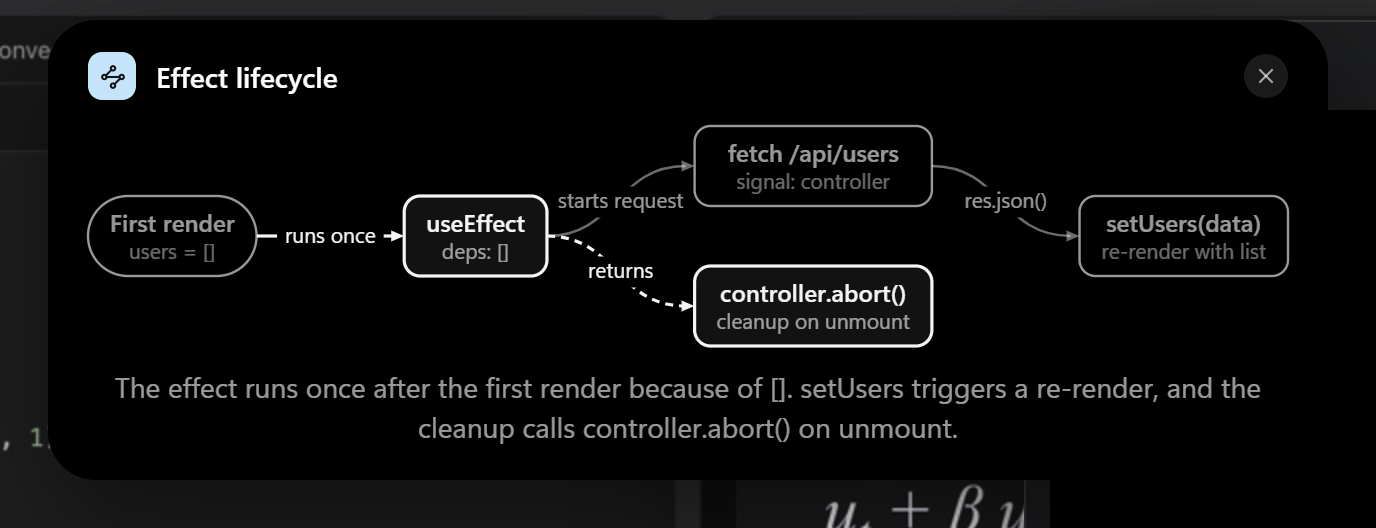
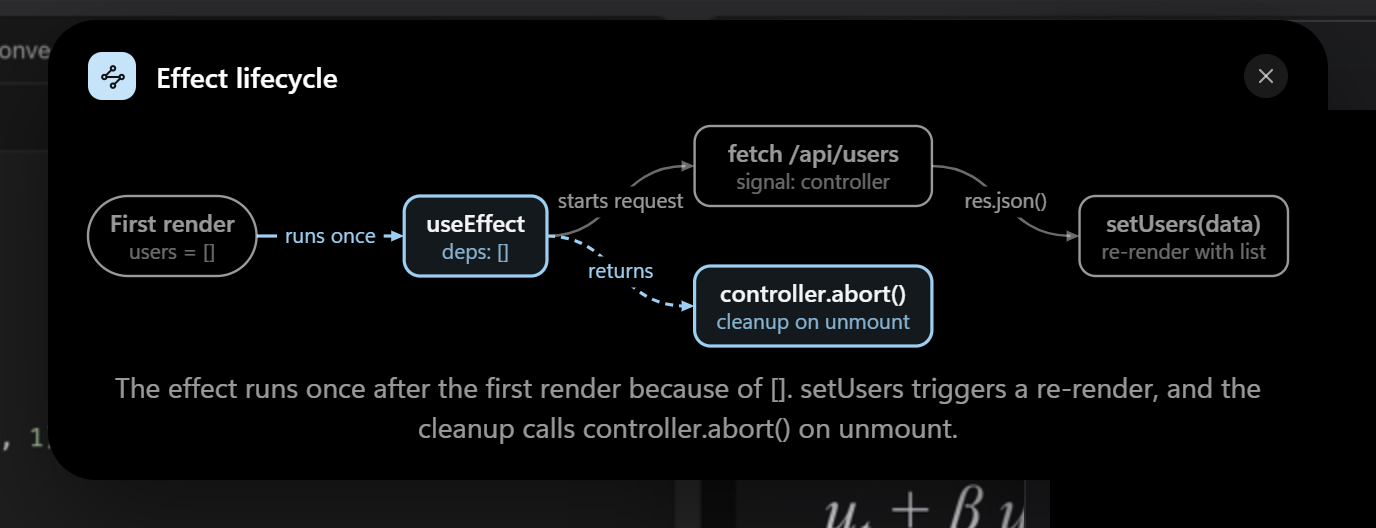
diagrams: a tad of pastel (Adrian): deep-sky emphasis, pastel group washes and git lanes, sky heatmap ramp

diff --git a/app/src/renderer/src/features/diagrams/Graph.tsx b/app/src/renderer/src/features/diagrams/Graph.tsx
@@ -7,13 +7,14 @@
  *   sequence : participants on top, lifelines, one arrow per message in `order`, top to bottom
  *   git      : a vertical log (like `git log --graph`): row = commit order (col), lanes = branches (row) as
  *              columns on the left, hash + message + branch tag on the right, so no line crosses a label
- * Emphasis = full white; everything else at label alpha. Groups are a faint cluster with their label.
+ * Color, a tad (Adrian, Sat): emphasis in deep sky (the Diagram tone, like the header tile); groups and git lanes take
+ * the pastel trio (sky, lilac, pink) as soft washes. Everything else white / label alpha. Green and amber stay status-only.
  * Lines draw in (350 ms, 30 ms stagger). Every label comes from the data. Reference: server/diagrams/render_svg.py.
  */
 import { motion } from 'motion/react'
 import { useId, useMemo, type ReactNode } from 'react'
 import type { GraphDiagramData } from '../../../../../../shared/contracts/events'
-import { color, fill, font } from '../../core/theme'
+import { brand, color, fill, font } from '../../core/theme'
 
 type Node = GraphDiagramData['nodes'][number]
 type Edge = GraphDiagramData['edges'][number]
@@ -28,6 +29,16 @@ const STAGGER = 0.03
 const MASK = 'white'
 const LABEL = 10.5
 const LH = 12.5
+/** Emphasis: the deeper sky (the Diagram tone reads near-white as a thin stroke). */
+const ACCENT = brand.pastel.skyDeep
+/** Categorical washes (groups, git lanes), in order. */
+const PASTELS = [brand.pastel.sky, brand.pastel.lilac, brand.pastel.pink] as const
+/** A token hex at alpha a. */
+export function tint(hex: string, a: number): string {
+  const m = hex.replace('#', '')
+  const [r, g, b] = [0, 2, 4].map((i) => parseInt(m.slice(i, i + 2), 16))
+  return `rgba(${r},${g},${b},${a})`
+}
 
 // ---------------------------------------------------------------------------------------------- text
 
@@ -77,10 +88,10 @@ const clamp = (v: number, lo: number, hi: number): number => Math.max(lo, Math.m
 
 type BoxText = { label: Fit; detail: string[]; dsize: number }
 type CommitText = { hash: Fit; hashX: number; detail?: Fit; detailX: number; tag?: { x: number; w: number; text: string } }
-type Box = { n: Node; x: number; y: number; w: number; h: number; hx: number; hy: number; rank: number; kind: 'box' | 'circle' | 'commit'; text?: BoxText; commit?: CommitText }
+type Box = { n: Node; x: number; y: number; w: number; h: number; hx: number; hy: number; rank: number; kind: 'box' | 'circle' | 'commit'; text?: BoxText; commit?: CommitText; tone?: string }
 type Label = { x: number; y: number; lines: string[]; size: number; anchor: 'middle' | 'start'; bg: boolean }
-type Line = { key: string; d: string; dashed: boolean; strong: boolean; head?: { x: number; y: number; a: number }; label?: Label; order: number; title: string }
-type Group = { id: string; label: string; x: number; y: number; w: number; h: number }
+type Line = { key: string; d: string; dashed: boolean; strong: boolean; stroke?: string; head?: { x: number; y: number; a: number }; label?: Label; order: number; title: string }
+type Group = { id: string; label: string; x: number; y: number; w: number; h: number; tone: string }
 type Scene = { boxes: Box[]; lines: Line[]; groups: Group[]; lifelines: { x: number; y1: number; y2: number }[]; minY: number; maxY: number }
 
 function extents(): { add: (a: number, b: number) => void; get: () => { minY: number; maxY: number } } {
@@ -222,14 +233,14 @@ function layered(g: GraphDiagramData): Scene {
   lines.sort((p, q) => p.order - q.order).forEach((l, i) => (l.order = i))
 
   const groups: Group[] = []
-  for (const c of clusters) {
+  for (const [gi, c] of clusters.entries()) {
     const m = boxes.filter((b) => b.n.group === c.id)
     if (!m.length) continue
     const x1 = Math.min(...m.map((b) => b.x - b.hx)) - 10
     const x2 = Math.max(...m.map((b) => b.x + b.hx)) + 10
     const y1 = Math.min(...m.map((b) => b.y - b.hy)) - 24
     const y2 = Math.max(...m.map((b) => b.y + b.hy)) + 10
-    groups.push({ id: c.id, label: fit(c.label, x2 - x1 - 20, LABEL).text, x: x1, y: y1, w: x2 - x1, h: y2 - y1 })
+    groups.push({ id: c.id, label: fit(c.label, x2 - x1 - 20, LABEL).text, x: x1, y: y1, w: x2 - x1, h: y2 - y1, tone: PASTELS[gi % PASTELS.length] })
     ext.add(y1, y2)
   }
   return { boxes, lines, groups, lifelines: [], ...ext.get() }
@@ -392,7 +403,7 @@ function git(g: GraphDiagramData): Scene {
       detailX: x0 - R + detailX,
       tag: tag ? { x: x0 - R + detailX + dW + (detail ? 10 : 0), w: tagW, text: fit(tag, tagW - 12, LABEL, 9, 400, true).text } : undefined
     }
-    return { n, x: laneX(lane(n)), y, w: R * 2, h: R * 2, hx: R, hy: R, rank: k, kind: 'commit', commit }
+    return { n, x: laneX(lane(n)), y, w: R * 2, h: R * 2, hx: R, hy: R, rank: k, kind: 'commit', commit, tone: PASTELS[lane(n) % PASTELS.length] }
   })
   const byId = new Map(boxes.map((b) => [b.n.id, b]))
   const busy = (r: number, k1: number, k2: number): boolean => nodes.some((n, k) => k > k1 && k < k2 && lane(n) === r)
@@ -408,6 +419,9 @@ function git(g: GraphDiagramData): Scene {
     const ka = rowOf.get(a.n.id)!
     const kb = rowOf.get(b.n.id)!
     base.order = Math.min(ka, kb) + i * 0.01
+    // a line takes the color of the branch it leads into
+    const tone = b.tone ?? ACCENT
+    const stroke = base.strong ? tone : tint(tone, 0.5)
     const down = kb > ka ? 1 : -1
     if (base.dashed && a.x !== b.x) {
       // original → copy: leave between the lanes, enter the copy from its side
@@ -417,13 +431,13 @@ function git(g: GraphDiagramData): Scene {
       const tip = { x: b.x - dir * (R + 1.5), y: b.y, a: dir > 0 ? 0 : Math.PI }
       const [ex, ey] = back(tip.x, tip.y, tip.a)
       const d = `M${p0x},${p0y} C${p0x + dir * LANE * 0.4},${p0y + down * Math.min(24, Math.abs(b.y - a.y) * 0.45)} ${ex - dir * 12},${ey} ${ex},${ey}`
-      lines.push({ ...base, d, head: tip })
+      lines.push({ ...base, stroke, d, head: tip })
       return
     }
     if (a.x === b.x) {
       const sy = a.y + down * (R + 2)
       const ey = b.y - down * (R + 2)
-      lines.push({ ...base, d: `M${a.x},${sy} L${a.x},${ey}`, head: base.dashed ? { x: b.x, y: b.y - down * (R + 1), a: down > 0 ? Math.PI / 2 : -Math.PI / 2 } : undefined })
+      lines.push({ ...base, stroke, d: `M${a.x},${sy} L${a.x},${ey}`, head: base.dashed ? { x: b.x, y: b.y - down * (R + 1), a: down > 0 ? Math.PI / 2 : -Math.PI / 2 } : undefined })
       return
     }
     const sy = a.y + R + 1
@@ -438,7 +452,7 @@ function git(g: GraphDiagramData): Scene {
       const y1 = b.y - ROW
       d = `M${a.x},${sy}${y1 > sy ? ` L${a.x},${y1}` : ''} C${a.x},${b.y - ROW * 0.45} ${b.x},${b.y - ROW * 0.55} ${b.x},${ey}`
     } else d = `M${a.x},${sy} C${a.x},${(sy + ey) / 2} ${b.x},${(sy + ey) / 2} ${b.x},${ey}`
-    lines.push({ ...base, d })
+    lines.push({ ...base, stroke, d })
   })
   lines.sort((p, q) => p.order - q.order).forEach((l, i) => (l.order = i))
   const last = boxes[boxes.length - 1]
@@ -475,8 +489,8 @@ export function Graph({ data }: { data: GraphDiagramData }): ReactNode {
     <svg key={sig} width={W * scale} height={H * scale} viewBox={`0 ${scene.minY} ${W} ${H}`} className="mx-auto block overflow-visible" style={{ fontFamily: font.ui }}>
       {scene.groups.map((g) => (
         <motion.g key={`g-${g.id}`} initial={{ opacity: 0 }} animate={{ opacity: 1 }} transition={{ duration: 0.2 }}>
-          <rect x={g.x} y={g.y} width={g.w} height={g.h} rx={12} fill={fill.chip} />
-          <text x={g.x + 10} y={g.y + 15} fill={color.faint} fontSize={LABEL}>
+          <rect x={g.x} y={g.y} width={g.w} height={g.h} rx={12} fill={tint(g.tone, 0.1)} />
+          <text x={g.x + 10} y={g.y + 15} fill={tint(g.tone, 0.85)} fontSize={LABEL}>
             {g.label}
           </text>
         </motion.g>
@@ -486,7 +500,7 @@ export function Graph({ data }: { data: GraphDiagramData }): ReactNode {
       ))}
 
       {scene.lines.map((l) => {
-        const stroke = l.strong ? color.text : color.faint
+        const stroke = l.stroke ?? (l.strong ? ACCENT : color.faint)
         const width = l.strong ? 1.6 : 1.25
         const t = { duration: DRAW, delay: lineDelay(l), ease: 'easeOut' as const }
         const mask = `${uid}-${l.key.replace(/[^a-zA-Z0-9-]/g, '')}`
@@ -529,7 +543,7 @@ function EdgeLabel({ l, strong, delay }: { l: Label; strong: boolean; delay: num
     <motion.g initial={{ opacity: 0 }} animate={{ opacity: 1 }} transition={{ duration: 0.15, delay }}>
       {l.bg && <rect x={x0} y={l.y - LH + 2} width={w} height={h} rx={4} fill={color.island} />}
       {l.lines.map((s, i) => (
-        <text key={i} x={l.x} y={l.y + i * LH} textAnchor={l.anchor} fill={strong ? color.text : color.label} fontSize={l.size}>
+        <text key={i} x={l.x} y={l.y + i * LH} textAnchor={l.anchor} fill={strong ? ACCENT : color.label} fontSize={l.size}>
           {s}
         </text>
       ))}
@@ -541,14 +555,15 @@ function NodeBox({ b }: { b: Box }): ReactNode {
   const { n, x, y } = b
   const t = b.text!
   const strong = !!n.emphasis
-  const stroke = ink(strong)
+  const stroke = strong ? ACCENT : color.label
   const sw = strong ? 1.6 : 1.2
-  const dfill = strong ? color.label : color.faint
+  const wash = tint(ACCENT, 0.12)
+  const dfill = strong ? tint(ACCENT, 0.85) : color.faint
   if (b.kind === 'circle') {
     return (
       <>
         <circle cx={x} cy={y} r={b.hx} fill={color.island} stroke={stroke} strokeWidth={sw} />
-        {strong && <circle cx={x} cy={y} r={b.hx} fill={fill.highlight} />}
+        {strong && <circle cx={x} cy={y} r={b.hx} fill={wash} />}
         <text x={x} y={y + 4} textAnchor="middle" fill={ink(strong)} fontSize={t.label.size} fontWeight={600}>
           {t.label.text}
         </text>
@@ -570,7 +585,7 @@ function NodeBox({ b }: { b: Box }): ReactNode {
   return (
     <>
       <rect x={x - w / 2} y={y - h / 2} width={w} height={h} rx={rx} fill={color.island} stroke={stroke} strokeWidth={sw} />
-      {strong && <rect x={x - w / 2} y={y - h / 2} width={w} height={h} rx={rx} fill={fill.highlight} />}
+      {strong && <rect x={x - w / 2} y={y - h / 2} width={w} height={h} rx={rx} fill={wash} />}
       {/* data: a table-like header rule */}
       {data && <line x1={x - w / 2} x2={x + w / 2} y1={y - h / 2 + 6} y2={y - h / 2 + 6} stroke={stroke} strokeWidth={0.8} />}
       <text x={x} y={ly} textAnchor="middle" fill={ink(strong)} fontSize={t.label.size} fontWeight={600}>
@@ -589,9 +604,10 @@ function Commit({ b }: { b: Box }): ReactNode {
   const { n, x, y } = b
   const c = b.commit!
   const strong = !!n.emphasis
+  const tone = b.tone ?? ACCENT
   return (
     <>
-      <circle cx={x} cy={y} r={b.hx} fill={strong ? color.text : color.island} stroke={ink(strong)} strokeWidth={1.5} />
+      <circle cx={x} cy={y} r={b.hx} fill={strong ? tone : color.island} stroke={strong ? tone : tint(tone, 0.75)} strokeWidth={1.5} />
       <text x={c.hashX} y={y + 3.8} fill={strong ? color.text : color.faint} fontSize={c.hash.size} fontFamily={font.mono}>
         {c.hash.text}
       </text>
@@ -602,8 +618,8 @@ function Commit({ b }: { b: Box }): ReactNode {
       )}
       {c.tag && (
         <>
-          <rect x={c.tag.x} y={y - 8} width={c.tag.w} height={16} rx={4} fill={fill.chip} stroke={fill.chipBorder} />
-          <text x={c.tag.x + 6} y={y + 3.6} fill={color.label} fontSize={LABEL} fontFamily={font.mono}>
+          <rect x={c.tag.x} y={y - 8} width={c.tag.w} height={16} rx={4} fill={tint(tone, 0.14)} />
+          <text x={c.tag.x + 6} y={y + 3.6} fill={tone} fontSize={LABEL} fontFamily={font.mono}>
             {c.tag.text}
           </text>
         </>

diff --git a/app/src/renderer/src/features/diagrams/Heatmap.tsx b/app/src/renderer/src/features/diagrams/Heatmap.tsx
@@ -1,13 +1,13 @@
 /**
  * kind "heatmap": predicted (and exact, when sent) field u(x,t) on a canvas. t runs left to right, x bottom to top.
- * Monochrome on the island: a value ramp from `fill.thumb` (low) to `color.text` (high), one scale shared by
- * both panels. Hover a panel for the value under the pointer. Panels sweep in along t (350 ms, 30 ms stagger).
+ * One hue, a tad of color (Adrian, Sat): a value ramp from `fill.thumb` (low) to sky, the Diagram tone (high), one
+ * scale shared by both panels. Hover a panel for the value under the pointer. Panels sweep in along t (350 ms, 30 ms stagger).
  * Data orientation follows the engine (server/orchestrator/stubs.py): grid[tIndex][xIndex]; a transposed
  * grid ([x][t]) is accepted too. Empty or malformed data renders nothing (never a placeholder).
  */
 import { motion } from 'motion/react'
 import { useEffect, useMemo, useRef, useState, type ReactNode } from 'react'
-import { color, fill } from '../../core/theme'
+import { actionTone, color, fill } from '../../core/theme'
 
 export type HeatmapData = { x: number[]; t: number[]; predicted: number[][]; exact?: number[][] }
 
@@ -27,7 +27,7 @@ const hex = (h: string): [number, number, number] => {
   return [0, 2, 4].map((i) => parseInt(m.slice(i, i + 2), 16)) as [number, number, number]
 }
 const LOW = hex(fill.thumb)
-const HIGH = hex(color.text)
+const HIGH = hex(actionTone.diagram)
 const ramp = (f: number): [number, number, number] => [0, 1, 2].map((i) => Math.round(LOW[i] + (HIGH[i] - LOW[i]) * f)) as [number, number, number]
 
 const num = (v: number): string => {

diff --git a/app/agents/diagrams.md b/app/agents/diagrams.md
@@ -38,7 +38,7 @@ Intuition diagrams that morph out of the pill (⌥D). The generic **graph** is t
 - **heatmap:** canvas, t left → right, x bottom → top (engine order `grid[t][x]`, a transposed `[x][t]` grid is accepted). Predicted and exact side by side on one shared scale, from `fill.thumb` to `color.text` (no hues); 8-step scale with min/max; hover shows `t · x · values`. Malformed or empty data renders nothing (no placeholder).
 - **Tabs:** only when the engine sent more than one kind for the same step (payload `stepId`, else the lesson's current step). They take the title's place next to the sky KindTile (13 px, selected semibold). Neutral chrome, the selected tab slides on the one spring.
 - **Motion:** edges draw in 350 ms, 30 ms stagger by rank / message order; dashed edges draw through a mask (pathLength can't animate a dashed stroke); heatmap panels sweep in along t.
-- **Color:** after the polish merge, graph emphasis stays full white (Adrian's spec: no pastel on nodes); sky is only the header tile (theirs) and gradients' highlighted series (theirs). Heatmap stays monochrome.
+- **Color (Adrian, Sat: "a little more colorful with the pastels, a tad"):** emphasized nodes and edges in deep sky (`brand.pastel.skyDeep`, a soft sky wash inside emphasized boxes); named groups take the pastel trio (sky, lilac, pink) as a 10% wash with a tinted label; git lanes take the same trio (lines, commits, branch tags); the heatmap ramp runs from `fill.thumb` to sky. Everything else stays white / label alpha; green and amber stay status-only. Note for the integrator: BRAND.md still says pastels are for options only; this is Adrian's exception for diagrams.
 - **Caption:** `Diagram.tsx` (polish) clamps it to 2 lines in `color.label`, which fits the engine's ~200-character graph captions.
 - **Mock:** `?scenario=diagrams`: Alt+D shows flow (React effect), then Alt+D/Esc closes; the next Alt+D shows sequence (login), tree (components), data (pandas), architecture (cache, with groups), git (rebase), then network + heatmap with tabs, and loops. Flow, data and git are the engine's live examples verbatim (`server/diagrams/examples/`); sequence, tree and architecture are hand-made to `layout.py`'s rules.
 - **Shots:** `agents/shots/diagrams-{flow,sequence,tree,data,architecture,git,git-12,heatmap,heatmap-hover,heatmap-single,tabs-network}.png`.
